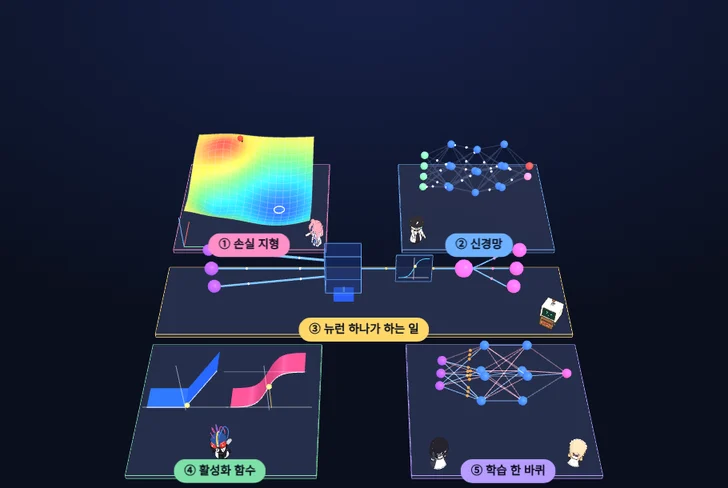
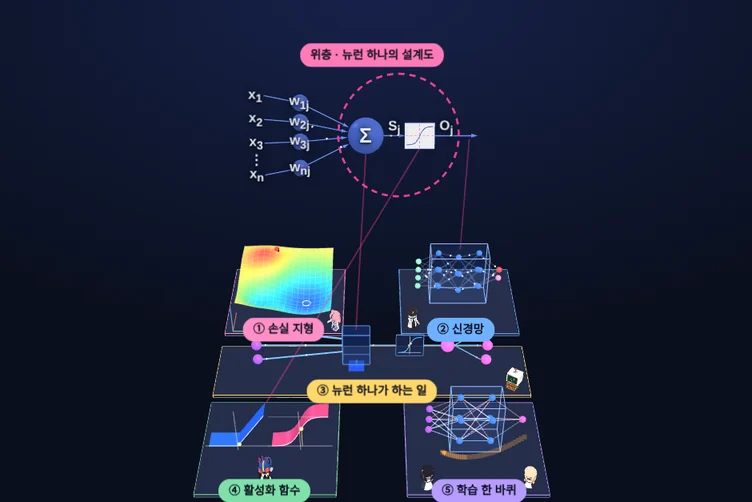
01편: 위층 뉴런 설계도, 은닉층 표시, 순전파·역전파 식, 활성화 함수 5종, 3D 소감 추가

diff --git a/math_behind_ai/index.html b/math_behind_ai/index.html
@@ -39,6 +39,9 @@ main{flex:1;display:grid;grid-template-columns:minmax(0,1fr) 390px;min-height:0}
 .lb.num{font-size:12.5px;font-weight:500;background:#0a0f1ecc;border:1px solid var(--line);border-radius:6px;padding:0 6px;text-shadow:none}
 .lb.big{font-size:14.5px;font-weight:700;background:#0a0f1ee6;border:1px solid var(--c,var(--line));border-radius:8px;padding:1px 8px;text-shadow:none}
 .lb.note{color:var(--muted)}
+.lb.ctr{text-align:center;line-height:1.3}
+.lb.sym{font-size:17px;font-weight:700}
+.lb.sig{font-size:26px;font-weight:900}
 .lb.say{background:#fff;color:#141a2e;text-shadow:none;font-size:13px;font-weight:500;line-height:1.45;padding:6px 11px;border-radius:12px;white-space:normal;width:max-content;max-width:230px;box-shadow:0 4px 14px #0008}
 .lb.say::after{content:"";position:absolute;left:50%;bottom:-6px;width:12px;height:12px;background:#fff;transform:translateX(-50%) rotate(45deg);border-radius:2px}
 .lb.say b{color:#b0307a}
@@ -118,11 +121,12 @@ input[type=range]{width:100%;accent-color:var(--acc);height:22px}
   </div>
   <nav id="tabs" aria-label="구역 이동">
     <button data-s="0" aria-pressed="true">전체 보기</button>
+    <button data-s="6" style="--c:#ff7ab8">위층 · 뉴런 설계도</button>
     <button data-s="1" style="--c:var(--pink)">① 손실 지형</button>
     <button data-s="2" style="--c:var(--blue)">② 신경망</button>
     <button data-s="3" style="--c:var(--yellow)">③ 뉴런 하나</button>
     <button data-s="4" style="--c:var(--green)">④ 활성화 함수</button>
-    <button data-s="5" style="--c:var(--purple)">⑤ 학습 한 바퀴</button>
+    <button data-s="5" style="--c:var(--purple)">⑤ 순전파·역전파</button>
   </nav>
 </header>
 <main>
@@ -139,30 +143,59 @@ input[type=range]{width:100%;accent-color:var(--acc);height:22px}
       <div class="three">
         <p>AI가 "배운다"는 것은 <b>틀린 정도(손실)를 줄이는 숫자를 찾는 일</b>입니다.</p>
         <p>그 숫자는 뉴런마다 달린 <b>가중치와 편향</b>입니다.</p>
-        <p>아래 다섯 구역을 차례로 돌면 이 과정이 한 바퀴 이어집니다.</p>
+        <p>상공에 뜬 것은 <b>뉴런 하나의 설계도</b>이고, 아래층 다섯 구역이 그 부품을 하나씩 살펴봅니다.</p>
       </div>
+      <h3>처음으로 3D가 된 소감</h3>
+      <div class="talk"><div><img src="../assets/doctor_E01.webp" alt=""><p><b>박사</b>평면에서는 늘 정면만 보여 드렸지요. 이제 뒤 꽁지머리까지 보입니다. 설명할 때 팔이 실제로 올라가니 좋군요.</p></div><div><img src="../assets/haru_E01.webp" alt=""><p><b>조수(하루)</b>빙 돌려 봐도 저예요! 뒷머리 남색 줄, 드디어 보여 드려요.</p></div><div><img src="../assets/fruitfly_E13.webp" alt=""><p><b>초파리 연구원</b>날개와 다리 여섯 개가 정말 다 붙어 있는지, 돌려서 직접 검증해 보십시오.</p></div><div><img src="../assets/jupanbot_E01.webp" alt=""><p><b>주판봇</b>무한궤도로 판 위에 설 수 있게 됐습니다. 뒤쪽 통풍구도 이제 보입니다.</p></div><div><img src="../assets/sia_E13.webp" alt=""><p><b>시아</b>등 뒤 리본 매듭도 흐트러지지 않게 묶어 두었습니다.</p></div><div><img src="../assets/moa_E04.webp" alt=""><p><b>모아</b>나란히 서니까 제 키가 제일 작은 게 들켰어요… 그래도 같이 서 있으니 좋아요!</p></div></div>
       <h3>오늘 안내하는 연구실 식구</h3>
       <div class="crew">
         <div><img src="../assets/haru_E01.webp" alt=""><span><b>조수(하루)</b>① 공 굴리기</span></div>
         <div><img src="../assets/doctor_E13.webp" alt=""><span><b>박사</b>② 해설</span></div>
         <div><img src="../assets/jupanbot_E13.webp" alt=""><span><b>주판봇</b>③ 계산</span></div>
         <div><img src="../assets/fruitfly_E13.webp" alt=""><span><b>초파리 연구원</b>④ 검증</span></div>
-        <div><img src="../assets/sia_E13.webp" alt=""><span><b>시아</b>⑤ 판정</span></div>
+        <div><img src="../assets/sia_E13.webp" alt=""><span><b>시아</b>⑤ 오차 판정</span></div>
         <div><img src="../assets/moa_E01.webp" alt=""><span><b>모아</b>⑤ 응원</span></div>
       </div>
       <h3>구역 고르기</h3>
       <div class="cards">
+        <button class="card" data-s="6" style="--c:#ff7ab8"><i>↑</i><div><b>위층 · 뉴런 하나의 설계도</b><span>아래층이 살펴볼 그림을 먼저 보기</span></div></button>
         <button class="card" data-s="1" style="--c:var(--pink)"><i>1</i><div><b>손실 지형</b><span>공을 굴려 가장 낮은 곳을 찾기</span></div></button>
         <button class="card" data-s="2" style="--c:var(--blue)"><i>2</i><div><b>신경망 (멀리서 보기)</b><span>입력층 → 은닉층 → 출력층</span></div></button>
         <button class="card" data-s="3" style="--c:var(--yellow)"><i>3</i><div><b>뉴런 하나가 하는 일</b><span>곱하고, 더하고, 구부리기</span></div></button>
         <button class="card" data-s="4" style="--c:var(--green)"><i>4</i><div><b>활성화 함수</b><span>ReLU와 시그모이드</span></div></button>
-        <button class="card" data-s="5" style="--c:var(--purple)"><i>5</i><div><b>학습 한 바퀴</b><span>작은 신경망이 실제로 배우는 모습</span></div></button>
+        <button class="card" data-s="5" style="--c:var(--purple)"><i>5</i><div><b>순전파와 역전파</b><span>작은 신경망이 실제로 배우는 한 바퀴</span></div></button>
       </div>
       <div class="foot">
         <p>글 · 안상선 ((주)M-Robo 대표)</p>
         <p>구성 참고: 인포그래픽 「Mathematics Behind AI」(ML Tut). 3D 장면과 설명문은 새로 만들었습니다.</p>
         <p>화면의 수치는 개념 설명용 예시입니다.</p>
         <p>캐릭터 이름·설정 © 안상선</p>
+      </div>
+    </section>
+
+    <section data-p="6" style="--acc:#ff7ab8">
+      <h2>위층 · 뉴런 하나의 설계도</h2>
+      <div class="three">
+        <p>신경망의 공 하나, 곧 <b>뉴런 한 개</b>를 크게 띄운 그림입니다.</p>
+        <p>입력 x에 가중치 w를 곱해 <b>Σ에서 모두 더하고</b>, 활성화 함수를 지나 밖으로 나갑니다.</p>
+        <p><b>분홍 점선 안</b>이 뉴런 한 개입니다.</p>
+      </div>
+      <div class="talk"><div><img src="../assets/doctor_E13.webp" alt=""><p><b>박사</b>위층은 설계도, 아래층은 실험대입니다. 설계도의 부품마다 아래에 살펴보는 자리가 있습니다.</p></div><div><img src="../assets/haru_E01.webp" alt=""><p><b>조수(하루)</b>분홍 빛줄기를 따라 내려가면 되는군요!</p></div></div>
+      <h3>기호 읽기</h3>
+      <div class="sumbox">
+        <span>x₁ … xₙ</span><b>입력</b>
+        <span>w₁ⱼ … wₙⱼ</span><b>j번째 뉴런으로 들어가는 가중치</b>
+        <span>Σ</span><b>곱한 값을 모두 더하기</b>
+        <span>Sⱼ</span><b>더한 값</b>
+        <span>활성화 함수</span><b>더한 값을 구부리기</b>
+        <span>Oⱼ</span><b>이 뉴런의 출력</b>
+      </div>
+      <h3>아래층에서 살펴보기</h3>
+      <div class="btns">
+        <button class="btn" data-s="3">③ 가중치와 Σ 계산</button>
+        <button class="btn" data-s="4">④ 활성화 함수</button>
+        <button class="btn" data-s="2">② 뉴런이 모인 신경망</button>
+        <button class="btn" data-s="5">⑤ 가중치를 고치는 법</button>
       </div>
     </section>
 
@@ -250,22 +283,26 @@ input[type=range]{width:100%;accent-color:var(--acc);height:22px}
       <div class="three">
         <p>더한 값을 그대로 넘기면 층을 아무리 쌓아도 <b>직선</b>밖에 못 그립니다.</p>
         <p>활성화 함수가 값을 <b>구부려</b> 곡선 패턴을 배울 수 있게 합니다.</p>
-        <p>가장 자주 쓰는 두 가지가 ReLU와 시그모이드입니다.</p>
+        <p>자주 쓰는 다섯 가지를 골라 비교할 수 있습니다.</p>
       </div>
       <div class="talk"><div><img src="../assets/fruitfly_E13.webp" alt=""><p><b>초파리 연구원</b>굳이 구부려야 합니까? 더하기만 해도 되지 않습니까?</p></div><div><img src="../assets/doctor_E13.webp" alt=""><p><b>박사</b>직선은 아무리 겹쳐도 직선입니다. 구부려야 곡선 모양의 패턴을 배웁니다.</p></div></div>
       <div class="row"><label for="acZ">넣는 값 x</label><input id="acZ" type="range" min="-6" max="6" step="0.01" value="0.439"><output id="acZO"></output></div>
       <div class="btns"><button class="btn" id="acFromN">③번 뉴런의 합계 넣기</button></div>
+      <h3>왼쪽 함수</h3>
+      <div class="btns"><button class="btn" data-af="relu" data-slot="0">ReLU</button><button class="btn" data-af="lrelu" data-slot="0">Leaky ReLU</button><button class="btn" data-af="elu" data-slot="0">ELU</button></div>
+      <h3>오른쪽 함수</h3>
+      <div class="btns"><button class="btn" data-af="sig" data-slot="1">시그모이드</button><button class="btn" data-af="tanh" data-slot="1">tanh</button></div>
       <div class="kv">
-        <div><span>ReLU · max(0, x)</span><b id="acR">0</b></div>
-        <div><span>시그모이드 · 1/(1+e<sup>−x</sup>)</span><b id="acS">0</b></div>
+        <div><span id="acN0"></span><b id="acR">0</b></div>
+        <div><span id="acN1"></span><b id="acS">0</b></div>
       </div>
-      <h3>차이</h3>
-      <p><b>ReLU</b>는 음수를 0으로 막고 양수는 그대로 통과시킵니다. 계산이 가벼워 은닉층에 많이 씁니다.</p>
-      <p><b>시그모이드</b>는 어떤 값이든 0과 1 사이로 눌러 줍니다. "맞다/아니다"의 확률처럼 읽을 때 출력층에 씁니다.</p>
+      <h3>고른 함수의 성격</h3>
+      <p id="acD0"></p>
+      <p id="acD1"></p>
     </section>
 
     <section data-p="5" style="--acc:var(--purple)">
-      <h2>⑤ 학습 한 바퀴</h2>
+      <h2>⑤ 순전파와 역전파</h2>
       <div class="three">
         <p>이 작은 신경망은 지금 <b>실제로 학습</b>하고 있습니다.</p>
         <p>예측하고, 틀린 정도를 재고, 거꾸로 돌아가며 가중치를 고칩니다.</p>
@@ -278,6 +315,9 @@ input[type=range]{width:100%;accent-color:var(--acc);height:22px}
         <li><b>3 역전파</b> · 어느 가중치 탓인지 거꾸로 따집니다</li>
         <li><b>4 가중치 갱신</b> · 손실이 줄어드는 쪽으로 조금 고칩니다</li>
       </ol>
+      <h3>가중치를 고치는 식</h3>
+      <div class="formula">새 w = w − α · ∂E/∂w</div>
+      <p style="margin-top:8px;font-size:14px"><b>E</b>는 오차(예측과 정답의 차이), <b>∂E/∂w</b>는 "이 가중치를 조금 바꾸면 오차가 얼마나 변하나", <b>α</b>는 학습률입니다. ①번 구역에서 공이 내딛던 한 걸음이 바로 이 식입니다.</p>
       <div class="btns">
         <button class="btn pri" id="flPlay">⏸ 멈춤</button>
         <button class="btn" id="flFast" aria-pressed="false">빠르게</button>
@@ -315,7 +355,7 @@ const fill=new T.DirectionalLight(0x88aaff,0.9); fill.position.set(-12,8,-10); s
 let G=scene; const groups=[null];
 function beginStation(){ G=new T.Group(); scene.add(G); groups.push(G); }
 const COL={pink:0xff8fc7,blue:0x6fb1ff,yellow:0xffd76a,green:0x7fe0a8,purple:0xb79cff,red:0xff6b5e};
-const CSS={1:'var(--pink)',2:'var(--blue)',3:'var(--yellow)',4:'var(--green)',5:'var(--purple)'};
+const CSS={1:'var(--pink)',2:'var(--blue)',3:'var(--yellow)',4:'var(--green)',5:'var(--purple)',6:'#ff7ab8'};
 const V=(x,y,z)=>new T.Vector3(x,y,z);
 let active=0;
 
@@ -325,12 +365,12 @@ function label(html,pos,cls,st,anchor){
   const el=document.createElement('div'); el.className='lb '+(cls||''); el.innerHTML=html;
   if(st) el.style.setProperty('--c',CSS[st]);
   labelsEl.appendChild(el);
-  const o={el,pos,st:st||0,always:(cls||'').includes('title'),anchor:anchor||'c'}; labels.push(o); return o;
+  const o={el,pos,key:/sym|sig/.test(cls||''),st:st||0,always:(cls||'').includes('title'),anchor:anchor||'c'}; labels.push(o); return o;
 }
 const tmp=new T.Vector3();
 function updateLabels(w,h){
   for(const o of labels){
-    const show=o.always?active===0:o.st===active;
+    const show=o.always?active===0:(o.st===active||(o.st===6&&active===0&&W0>700&&o.key));
     if(!show){ if(o.vis!==false){o.el.style.display='none';o.vis=false;} continue; }
     tmp.copy(o.pos).project(camera);
     if(tmp.z>1||tmp.z<-1){ if(o.vis!==false){o.el.style.display='none';o.vis=false;} continue; }
@@ -490,14 +530,20 @@ function buildNet(cx,cz,sizes,dx,dy,cy,colors,st){
   nodes.forEach((arr,l)=>arr.forEach((p,j)=>ball(p,0.3,typeof colors[l]==='number'?colors[l]:colors[l][j],0.3)));
   const edges=[];
   for(let l=0;l<sizes.length-1;l++)for(let i=0;i<sizes[l];i++)for(let j=0;j<sizes[l+1];j++)edges.push({l,i,j,a:nodes[l][i],b:nodes[l+1][j]});
-  return {nodes,edges,sizes};
+  const Ls=sizes.length, hm=Math.max(...sizes.slice(1,Ls-1));
+  const bx0=nodes[1][0].x-0.85, bx1=nodes[Ls-2][0].x+0.85, bh=(hm-1)*dy+1.5;
+  const bg=new T.BoxGeometry(bx1-bx0,bh,2.7);
+  const bm=new T.Mesh(bg,new T.MeshBasicMaterial({color:0x4f8dff,transparent:true,opacity:0.13,depthWrite:false}));
+  bm.position.set((bx0+bx1)/2,cy,cz); G.add(bm);
+  const be=new T.LineSegments(new T.EdgesGeometry(bg),new T.LineBasicMaterial({color:0x9cc2ff})); be.position.copy(bm.position); G.add(be);
+  return {nodes,edges,sizes,top:cy+bh/2};
 }
 const net2=buildNet(S2.cx,S2.cz,[4,5,4,5,2],2.1,1.05,3.5,[COL.green,0x3f7bff,0x3f7bff,0x3f7bff,[0xff4d4d,COL.pink]],2);
 (function(){
   const pts=[]; net2.edges.forEach(e=>pts.push(e.a,e.b));
-  G.add(new T.LineSegments(new T.BufferGeometry().setFromPoints(pts),new T.LineBasicMaterial({color:0x9db8ff,transparent:true,opacity:0.22})));
+  G.add(new T.LineSegments(new T.BufferGeometry().setFromPoints(pts),new T.LineBasicMaterial({color:0x9db8ff,transparent:true,opacity:0.3})));
   const x0=net2.nodes[0][0].x, x4=net2.nodes[4][0].x;
-  label('입력층 (특징)',V(x0,6.2,S2.cz),'stage',2); label('은닉층 (복잡한 패턴 학습)',V(S2.cx,6.9,S2.cz),'stage',2); label('출력층 (예측)',V(x4,5.0,S2.cz),'stage',2);
+  label('입력층 Input Layer<br>특징',V(x0,6.3,S2.cz),'stage ctr',2); label('은닉층 Hidden Layer · 복잡한 패턴 학습',V(S2.cx,net2.top+0.55,S2.cz),'stage',2); label('출력층 Output Layer<br>예측',V(x4,5.3,S2.cz),'stage ctr',2);
   net2.nodes[0].forEach((p,j)=>label('입력 '+(j+1),V(p.x-0.55,p.y,p.z),'note',2,'r'));
   net2.nodes[4].forEach((p,j)=>label('출력 '+(j+1),V(p.x+0.55,p.y,p.z),'note',2,'l'));
   $('#nnN').textContent=net2.sizes.reduce((a,b)=>a+b,0); $('#nnE').textContent=net2.edges.length;
@@ -604,44 +650,62 @@ beginStation();
 const S4={cx:-9,cz:13,y0:0.9,sx:0.42,d:1.6};
 slab(4,S4.cx,S4.cz,12,11,COL.green);
 label('④ 활성화 함수',V(S4.cx,0.5,S4.cz+5.5),'title',4);
-function ribbon(cx,f,sy,color){
-  const n=80, pos=[], idx=[];
-  for(let i=0;i<=n;i++){ const x=-6+12*i/n, y=S4.y0+f(x)*sy;
-    pos.push(cx+x*S4.sx,y,S4.cz-S4.d/2, cx+x*S4.sx,y,S4.cz+S4.d/2);
-    if(i<n){ const k=i*2; idx.push(k,k+1,k+2,k+1,k+3,k+2); } }
-  const g=new T.BufferGeometry(); g.setAttribute('position',new T.Float32BufferAttribute(pos,3)); g.setIndex(idx); g.computeVertexNormals();
-  G.add(new T.Mesh(g,new T.MeshStandardMaterial({color,side:T.DoubleSide,roughness:0.4,emissive:color,emissiveIntensity:0.15})));
-  const front=[]; for(let i=0;i<=n;i++){ const x=-6+12*i/n; front.push(V(cx+x*S4.sx,S4.y0+f(x)*sy,S4.cz+S4.d/2+0.01)); }
-  line(front,0xffffff,1);
-  line([V(cx-6*S4.sx-0.3,S4.y0,S4.cz+S4.d/2),V(cx+6*S4.sx+0.3,S4.y0,S4.cz+S4.d/2)],0xffffff,0.5);
-  line([V(cx,S4.y0-0.3,S4.cz+S4.d/2),V(cx,S4.y0+4.2,S4.cz+S4.d/2)],0xffffff,0.5);
+const AF={
+  relu:{n:'ReLU',fm:'max(0, x)',f:x=>Math.max(0,x),sy:0.62,off:0,color:0x2563eb,d:'<b>ReLU</b>는 음수를 0으로 막고 양수는 그대로 통과시킵니다. 계산이 가벼워 은닉층에 가장 많이 씁니다.'},
+  lrelu:{n:'Leaky ReLU',fm:'max(0.1x, x)',f:x=>x>0?x:0.1*x,sy:0.62,off:0,color:0x2563eb,d:'<b>Leaky ReLU</b>는 음수도 완전히 막지 않고 조금(0.1배) 흘려보냅니다. 음수 쪽 뉴런이 아예 꺼져 버리는 일을 줄입니다.'},
+  elu:{n:'ELU',fm:'x (x≥0) · eˣ−1 (x&lt;0)',f:x=>x>=0?x:Math.exp(x)-1,sy:0.62,off:0,color:0x2563eb,d:'<b>ELU</b>는 음수 쪽을 부드러운 곡선으로 −1까지 내립니다. 꺾이는 곳이 매끄럽습니다.'},
+  sig:{n:'시그모이드',fm:'1/(1+e<sup>−x</sup>)',f:sigmoid,sy:3.6,off:0,lo:'0',color:0xe0457b,d:'<b>시그모이드</b>는 어떤 값이든 0과 1 사이로 눌러 줍니다. "맞다/아니다"의 확률처럼 읽을 때 출력층에 씁니다.'},
+  tanh:{n:'tanh',fm:'tanh(x)',f:Math.tanh,sy:1.8,off:1.8,lo:'−1',color:0xe0457b,d:'<b>tanh</b>는 −1과 1 사이로 눌러 줍니다. 0을 중심으로 대칭이라 시그모이드보다 은닉층에 쓰기 좋습니다.'}
+};
+const NR=80, zf=S4.cz+S4.d/2;
+function mkSlot(cx,key,idx){
+  const g=new T.BufferGeometry(), ix=[];
+  g.setAttribute('position',new T.BufferAttribute(new Float32Array((NR+1)*6),3));
+  for(let i=0;i<NR;i++){ const k=i*2; ix.push(k,k+1,k+2,k+1,k+3,k+2); } g.setIndex(ix);
+  const mat=new T.MeshStandardMaterial({color:0xffffff,side:T.DoubleSide,roughness:0.4,emissiveIntensity:0.15});
+  G.add(new T.Mesh(g,mat));
+  const s={cx,key,idx,g,mat};
+  s.front=line(new Array(NR+1).fill(0).map(()=>V(0,0,0)),0xffffff,1);
+  s.hax=line([V(0,0,0),V(0,0,0)],0xffffff,0.5);
+  line([V(cx,S4.y0-0.5,zf),V(cx,S4.y0+4.2,zf)],0xffffff,0.5);
+  s.head=label('',V(cx,5.6,S4.cz),'stage',4);
+  s.dot=ball(V(0,0,0),0.17,0xffd76a,0.9); s.lab=label('',V(0,0,0),'big',4); s.drop=line([V(0,0,0),V(0,0,0)],0xffd76a,0.8);
+  return s;
 }
-const A4={relu:{cx:S4.cx-2.75,f:x=>Math.max(0,x),sy:0.62},sig:{cx:S4.cx+2.75,f:sigmoid,sy:3.6}};
-ribbon(A4.relu.cx,A4.relu.f,A4.relu.sy,0x2563eb); ribbon(A4.sig.cx,A4.sig.f,A4.sig.sy,0xe0457b);
-label('ReLU · max(0, x)',V(A4.relu.cx,5.6,S4.cz),'stage',4); label('시그모이드 · 1/(1+e<sup>−x</sup>)',V(A4.sig.cx,5.6,S4.cz),'stage',4);
-line([V(A4.sig.cx-2.6,S4.y0+3.6,S4.cz+S4.d/2),V(A4.sig.cx+2.6,S4.y0+3.6,S4.cz+S4.d/2)],0xffffff,0.3);
-label('1',V(A4.sig.cx-2.9,S4.y0+3.6,S4.cz+S4.d/2),'note',4); label('0',V(A4.sig.cx-2.9,S4.y0,S4.cz+S4.d/2),'note',4);
-const acDotR=ball(V(0,0,0),0.17,0xffd76a,0.9), acDotS=ball(V(0,0,0),0.17,0xffd76a,0.9);
-const acLabR=label('',V(0,0,0),'big',4), acLabS=label('',V(0,0,0),'big',4);
-const acDropR=line([V(0,0,0),V(0,0,0)],0xffd76a,0.8), acDropS=line([V(0,0,0),V(0,0,0)],0xffd76a,0.8);
+function fillSlot(s){
+  const d=AF[s.key], p=s.g.attributes.position, pts=[];
+  for(let i=0;i<=NR;i++){ const x=-6+12*i/NR, y=S4.y0+d.off+d.f(x)*d.sy, X0=s.cx+x*S4.sx;
+    p.setXYZ(i*2,X0,y,S4.cz-S4.d/2); p.setXYZ(i*2+1,X0,y,zf); pts.push(V(X0,y,zf+0.01)); }
+  p.needsUpdate=true; s.g.computeVertexNormals(); s.g.computeBoundingSphere();
+  s.front.geometry.setFromPoints(pts);
+  s.hax.geometry.setFromPoints([V(s.cx-6*S4.sx-0.3,S4.y0+d.off,zf),V(s.cx+6*S4.sx+0.3,S4.y0+d.off,zf)]);
+  s.mat.color.setHex(d.color); s.mat.emissive.setHex(d.color);
+  s.head.el.innerHTML=d.n+' · '+d.fm;
+  $('#acN'+s.idx).innerHTML=d.n+' · '+d.fm; $('#acD'+s.idx).innerHTML=d.d;
+  $$('[data-slot="'+s.idx+'"]').forEach(b=>b.setAttribute('aria-pressed',b.dataset.af===s.key));
+}
+const slots=[mkSlot(S4.cx-2.75,'relu',0),mkSlot(S4.cx+2.75,'sig',1)];
+line([V(slots[1].cx-2.6,S4.y0+3.6,zf),V(slots[1].cx+2.6,S4.y0+3.6,zf)],0xffffff,0.3);
+label('1',V(slots[1].cx-2.9,S4.y0+3.6,zf),'note',4); const loLab=label('0',V(slots[1].cx-2.9,S4.y0,zf),'note',4);
 let acZ=0.439;
 putChar('fly','fruitfly',4,V(S4.cx,0,S4.cz+4.2),0,'think','');
 function acRender(){
   $('#acZ').value=acZ; $('#acZO').textContent=fmt(acZ,2);
-  const r=Math.max(0,acZ), s=sigmoid(acZ), zf=S4.cz+S4.d/2+0.05;
-  $('#acR').textContent=fmt(r); $('#acS').textContent=fmt(s);
-  if(acZ<0){ act('fly','think','E04'); say('fly','음수를 넣으니 ReLU는 <b>0</b>으로 막습니다. 시그모이드는 '+fmt(s,2)+'.'); }
-  else if(acZ>4){ act('fly','explain'); say('fly','큰 값도 시그모이드는 <b>1 근처</b>에서 멈춥니다. ReLU는 '+fmt(r,2)+' 그대로.'); }
-  else { act('fly','think'); say('fly','ReLU는 '+fmt(r,2)+' 그대로, 시그모이드는 <b>'+fmt(s,2)+'</b>로 눌립니다.'); }
-  [[A4.relu,r,acDotR,acLabR,acDropR],[A4.sig,s,acDotS,acLabS,acDropS]].forEach(a=>{
-    const x=a[0].cx+acZ*S4.sx, y=S4.y0+a[1]*a[0].sy;
-    a[2].position.set(x,y,zf); a[3].pos.set(x,y+0.75,zf); a[3].el.textContent='f('+fmt(acZ,2)+') = '+fmt(a[1]);
-    a[4].geometry.setFromPoints([V(x,S4.y0,zf),V(x,y,zf)]);
-  });
+  const v=slots.map(s=>{ const d=AF[s.key], val=d.f(acZ), x=s.cx+acZ*S4.sx, y=S4.y0+d.off+val*d.sy;
+    s.dot.position.set(x,y,zf+0.05); s.lab.pos.set(x,y+0.75,zf); s.lab.el.textContent='f('+fmt(acZ,2)+') = '+fmt(val);
+    s.drop.geometry.setFromPoints([V(x,S4.y0+d.off,zf+0.05),V(x,y,zf+0.05)]); return val; });
+  $('#acR').textContent=fmt(v[0]); $('#acS').textContent=fmt(v[1]);
+  loLab.el.textContent=AF[slots[1].key].lo;
+  const n0=AF[slots[0].key].n, n1=AF[slots[1].key].n;
+  const t='x = '+fmt(acZ,2)+'일 때 '+n0+'는 <b>'+fmt(v[0],2)+'</b>, '+n1+'는 <b>'+fmt(v[1],2)+'</b>입니다.';
+  if(acZ<0){ act('fly','think','E04'); say('fly','음수를 넣었습니다. '+t); }
+  else if(acZ>4){ act('fly','explain'); say('fly','큰 값을 넣었습니다. '+t); }
+  else { act('fly','think'); say('fly',t); }
 }
+$$('[data-af]').forEach(b=>b.onclick=()=>{ const s=slots[+b.dataset.slot]; s.key=b.dataset.af; fillSlot(s); acRender(); });
 $('#acZ').oninput=e=>{ acZ=+e.target.value; acRender(); };
 $('#acFromN').onclick=()=>{ acZ=Math.max(-6,Math.min(6,nCalc().z)); acRender(); };
-acRender();
+slots.forEach(fillSlot); acRender();
 
 /* ================= ⑤ 학습 한 바퀴 ================= */
 beginStation();
@@ -657,8 +721,17 @@ const e5Geo=new T.BufferGeometry();
 const fl5In=net5.nodes[0].map(p=>label('',V(p.x-0.6,p.y,p.z),'num',5,'r'));
 const fl5Out=label('',V(net5.nodes[3][0].x,net5.nodes[3][0].y+1.0,S5.cz),'big',5); fl5Out.el.style.setProperty('--c','var(--pink)');
 const fl5Y=label('',V(net5.nodes[3][0].x,net5.nodes[3][0].y-1.0,S5.cz),'num',5);
-const fl5Ph=label('',V(S5.cx,6.2,S5.cz),'stage',5);
-label('특징 (x)',V(net5.nodes[0][0].x,0.9,S5.cz),'note',5); label('예측 (ŷ)',V(net5.nodes[3][0].x,0.9,S5.cz),'note',5);
+const fl5Ph=label('',V(S5.cx,net5.top+1.5,S5.cz),'big',5); fl5Ph.el.style.setProperty('--c','var(--purple)');
+label('은닉층 Hidden Layer',V(S5.cx,net5.top+0.5,S5.cz),'stage',5);
+label('입력층',V(net5.nodes[0][0].x,5.5,S5.cz),'stage',5); label('출력층',V(net5.nodes[3][0].x,5.5,S5.cz),'stage',5);
+const bpMat=new T.PointsMaterial({color:0xffa94d,size:6,sizeAttenuation:false,transparent:true,opacity:0.3});
+(function(){ const a=V(net5.nodes[3][0].x,net5.nodes[3][0].y-0.5,S5.cz+1.6), c=V(S5.cx,-0.9,S5.cz+1.6), b=V(net5.nodes[0][0].x+1.2,1.0,S5.cz+1.6);
+  const pts=new T.QuadraticBezierCurve3(a,c,b).getPoints(34); G.add(new T.Points(new T.BufferGeometry().setFromPoints(pts),bpMat));
+  const hd=new T.Mesh(new T.ConeGeometry(0.2,0.5,10),new T.MeshBasicMaterial({color:0xffa94d})); hd.position.copy(b);
+  hd.quaternion.setFromUnitVectors(UP,new T.Vector3().subVectors(b,pts[32]).normalize()); G.add(hd);
+  label('← 역전파 Backpropagation',V(S5.cx,0.75,S5.cz+1.6),'note',5); label('순전파 Forward →',V(S5.cx,net5.top-0.35,S5.cz+1.4),'note',5);
+})();
+
 const p5=net5.edges.map(()=>pulse(0xffffff)); p5.forEach(m=>m.visible=false);
 putChar('sia','sia',5,V(S5.cx-4.3,0,S5.cz+4.6),0.4,'idle','예측과 정답의 차이를 판정합니다.');
 putChar('moa','moa',5,V(S5.cx+4.3,0,S5.cz+4.6),-0.4,'idle','');
@@ -696,7 +769,7 @@ function flSample(){ const d=DATA[fl.k%DATA.length], p=fwd(d.x)[3][0]; fl.cur={d
 function flCrew(){ if(fl.acc>=0.9){ act('moa','cheer','E01'); say('moa','맞힌 비율 <b>'+Math.round(fl.acc*100)+'%</b>! 잘 배우고 있어요.'); } else { act('moa','idle'); say('moa','아직 '+Math.round(fl.acc*100)+'%예요. 조금만 더!'); } }
 function flStats(){ flCrew(); $('#flN').textContent=fl.n; $('#flL').textContent=fmt(fl.loss); $('#flA').textContent=Math.round(fl.acc*100)+'%'; }
 const PH=['1 순전파','2 손실 계산','3 역전파','4 가중치 갱신'];
-function flPhase(){ fl5Ph.el.textContent=PH[fl.ph]; $$('#flSteps li').forEach((li,i)=>li.classList.toggle('now',i===fl.ph)); }
+function flPhase(){ bpMat.opacity=fl.ph===2?1:0.3; fl5Ph.el.textContent=PH[fl.ph]; $$('#flSteps li').forEach((li,i)=>li.classList.toggle('now',i===fl.ph)); }
 function flPlot(){
   const cv=$('#lossplot'), c=cv.getContext('2d'), w=cv.width, h=cv.height, H=fl.hist;
   c.clearRect(0,0,w,h); c.strokeStyle='#27345a'; c.lineWidth=1;
@@ -734,23 +807,67 @@ $('#flFast').onclick=e=>{ fl.fast=!fl.fast; e.target.setAttribute('aria-pressed'
 $('#flReset').onclick=()=>{ flInit(); $('#flPlay').textContent='⏸ 멈춤'; $('#flFast').setAttribute('aria-pressed','false'); };
 flInit();
 
+/* ================= 위층: 뉴런 하나의 설계도 ================= */
+beginStation();
+const sky=new T.Group(); sky.position.set(0,19,-9); sky.rotation.x=-0.5; G.add(sky); sky.updateMatrixWorld(true);
+const sp=(x,y,z)=>sky.localToWorld(V(x,y,z||0));
+const NAVY=0x3b55a5, PINKD=0xff3d8f;
+function arrow(a,b,r,color){ const d=new T.Vector3().subVectors(b,a).normalize(), e=b.clone().addScaledVector(d,-0.5);
+  tube(a,e,r,color,sky); const c=new T.Mesh(new T.ConeGeometry(r*3.2,0.6,12),new T.MeshStandardMaterial({color}));
+  c.position.copy(b).addScaledVector(d,-0.3); c.quaternion.setFromUnitVectors(UP,d); sky.add(c); }
+const skySeg=[];
+(function(){
+  const SG=V(-0.6,0,0), ys=[3.7,1.5,-0.7,-3.7], nm=['1','2','3','n'];
+  ball(SG,1.7,NAVY,0.25,sky); label('Σ',sp(-0.6,0,1.8),'sig',6);
+  ys.forEach((y,k)=>{
+    const a=V(-10.2,y,0), w=V(-6.8,y*0.82,0);
+    tube(a,w,0.05,0x5b7bd6,sky); ball(w,0.78,NAVY,0.25,sky);
+    const d=new T.Vector3().subVectors(SG,w).normalize();
+    arrow(w.clone().addScaledVector(d,0.78),SG.clone().addScaledVector(d,-1.75),0.05,0x5b7bd6);
+    label('x<sub>'+nm[k]+'</sub>',sp(-11,y,0),'sym',6); label('w<sub>'+nm[k]+'j</sub>',sp(-6.8,y*0.82,0.9),'sym',6);
+    skySeg.push([sp(a.x,a.y),sp(-2.2,d.y/d.x*(-2.2+0.6))]);
+  });
+  label('⋮',sp(-11,-2.3,0),'sym',6);
+  label('입력 inputs',sp(-11,5.2,0),'stage',6); label('가중치 weights',sp(-6.8,4.6,0),'stage',6);
+  arrow(V(1.1,0,0),V(3.1,0,0),0.06,0x5b7bd6); label('S<sub>j</sub>',sp(2.1,0.8,0),'sym',6);
+  const bg=new T.BoxGeometry(2.8,2.4,0.5);
+  const bm=new T.Mesh(bg,new T.MeshStandardMaterial({color:0xf4f7ff,transparent:true,opacity:0.92})); bm.position.set(4.5,0,0); sky.add(bm);
+  const be=new T.LineSegments(new T.EdgesGeometry(bg),new T.LineBasicMaterial({color:NAVY})); be.position.copy(bm.position); sky.add(be);
+  const cv=[]; for(let i=0;i<=40;i++){ const x=-6+i*0.3; cv.push(V(4.5+x/6*1.25,-0.85+sigmoid(x)*1.7,0.27)); }
+  for(let i=0;i<40;i++) tube(cv[i],cv[i+1],0.035,NAVY,sky);
+  for(let i=0;i<7;i++){ const t0=-1.3+i*0.4; tube(V(4.5+t0,0,0.27),V(4.5+t0+0.2,0,0.27),0.02,PINKD,sky); if(i<6) tube(V(4.5,-1.1+i*0.4,0.27),V(4.5,-0.9+i*0.4,0.27),0.02,PINKD,sky); }
+  label('활성화 함수 Activation function',sp(4.5,2.1,0),'stage',6);
+  arrow(V(5.9,0,0),V(10,0,0),0.06,0x5b7bd6); label('O<sub>j</sub>',sp(7.0,0.8,0),'sym',6);
+  const N=34, rg=new T.TorusGeometry(5.7,0.1,6,8,Math.PI*2/N*0.55), rm=new T.MeshBasicMaterial({color:PINKD});
+  for(let i=0;i<N;i++){ const m=new T.Mesh(rg,rm); m.position.set(2.5,0,0); m.rotation.z=i*Math.PI*2/N; sky.add(m); }
+  label('분홍 점선 안 = 뉴런 한 개',sp(2.5,-6.4,0),'note',6);
+  label('위층 · 뉴런 하나의 설계도',sp(0,7.4,0),'title',6);
+  skySeg.push([sp(1.1,0),sp(10,0)]);
+  // 아래층으로 내려가는 빛줄기
+  const bmat=new T.MeshBasicMaterial({color:PINKD,transparent:true,opacity:0.38,depthWrite:false});
+  [[sp(-0.6,-1.7),V(X.box,5.1,S3.cz)],[sp(4.5,-1.2),V(S4.cx,5.4,S4.cz)],[sp(9.2,-0.3),V(S2.cx,net2.top+0.3,S2.cz)]].forEach(q=>{
+    const m=new T.Mesh(cylGeo,bmat); place(m,q[0],q[1],0.07); G.add(m); });
+})();
+const skyP=skySeg.map((q,k)=>({m:pulse(k===4?0xffd76a:0xffffff),q}));
+
 /* ================= 카메라 ================= */
 const VIEW=[
-  {t:[0,0.5,3.2],r:43,th:0,ph:0.78},
+  {t:[0,6.5,1],r:66,th:0,ph:0.9},
   {t:[S1.cx+0.6,1.8,S1.cz+0.6],r:22,th:-0.5,ph:1.02},
   {t:[S2.cx-0.6,3.0,S2.cz+1.2],r:20.5,th:0.25,ph:1.26},
   {t:[0.6,3.3,S3.cz],r:25,th:0,ph:1.32},
   {t:[S4.cx,2.5,S4.cz+1.4],r:18.5,th:-0.2,ph:1.22},
-  {t:[S5.cx,2.9,S5.cz+1.4],r:21,th:0.2,ph:1.26}
+  {t:[S5.cx,2.9,S5.cz+1.4],r:21,th:0.2,ph:1.26},
+  {t:[0,12.5,-5],r:40,th:0,ph:1.2}
 ];
-const need=[2.1,1.3,1.3,2.25,1.3,1.3]; // 구역별로 필요한 가로/세로 비
+const need=[1.75,1.3,1.3,2.25,1.3,1.3,2.0]; // 구역별로 필요한 가로/세로 비
 const cur={x:0,y:1.5,z:3.6,r:60,th:0.5,ph:0.6}, goal={x:0,y:1.5,z:3.6,r:47,th:0,ph:0.8};
 let aspect=1.5;
 function goView(i){ const v=VIEW[i]; goal.x=v.t[0];goal.y=v.t[1];goal.z=v.t[2]; goal.th=v.th; goal.ph=v.ph; goal.r=v.r*Math.max(1,need[i]/aspect); }
-const names=['overview','loss','network','neuron','activation','training'];
+const names=['overview','loss','network','neuron','activation','training','blueprint'];
 function setActive(i,noHash){
   active=i; goView(i);
-  groups.forEach((g,k)=>{ if(g) g.visible=(i===0||k===i); });
+  groups.forEach((g,k)=>{ if(g) g.visible=(i===0||i===6||k===i); });
   $$('#tabs button').forEach(b=>b.setAttribute('aria-pressed',+b.dataset.s===i));
   $$('#panel section').forEach(s=>s.classList.toggle('on',+s.dataset.p===i));
   $('#panel').scrollTop=0;
@@ -806,6 +923,7 @@ function frame(now){
   for(const p of p2){ p.t+=dt*p.sp; if(p.t>=1){ p.t=0; p2Next(p); }
     p.m.position.lerpVectors(net2.nodes[p.l][p.i],net2.nodes[p.l+1][p.j],p.t); }
   // ③ 뉴런 신호
+  skyP.forEach((p,k)=>{ p.m.position.lerpVectors(p.q[0],p.q[1],(time*0.4+k*0.17)%1); });
   for(const p of nPulses){ const s=nSeg[p.seg], t=(time*0.55+p.off)%1; p.m.position.lerpVectors(s[0],s[1],t); }
   // ⑤ 학습
   flTick(dt);
